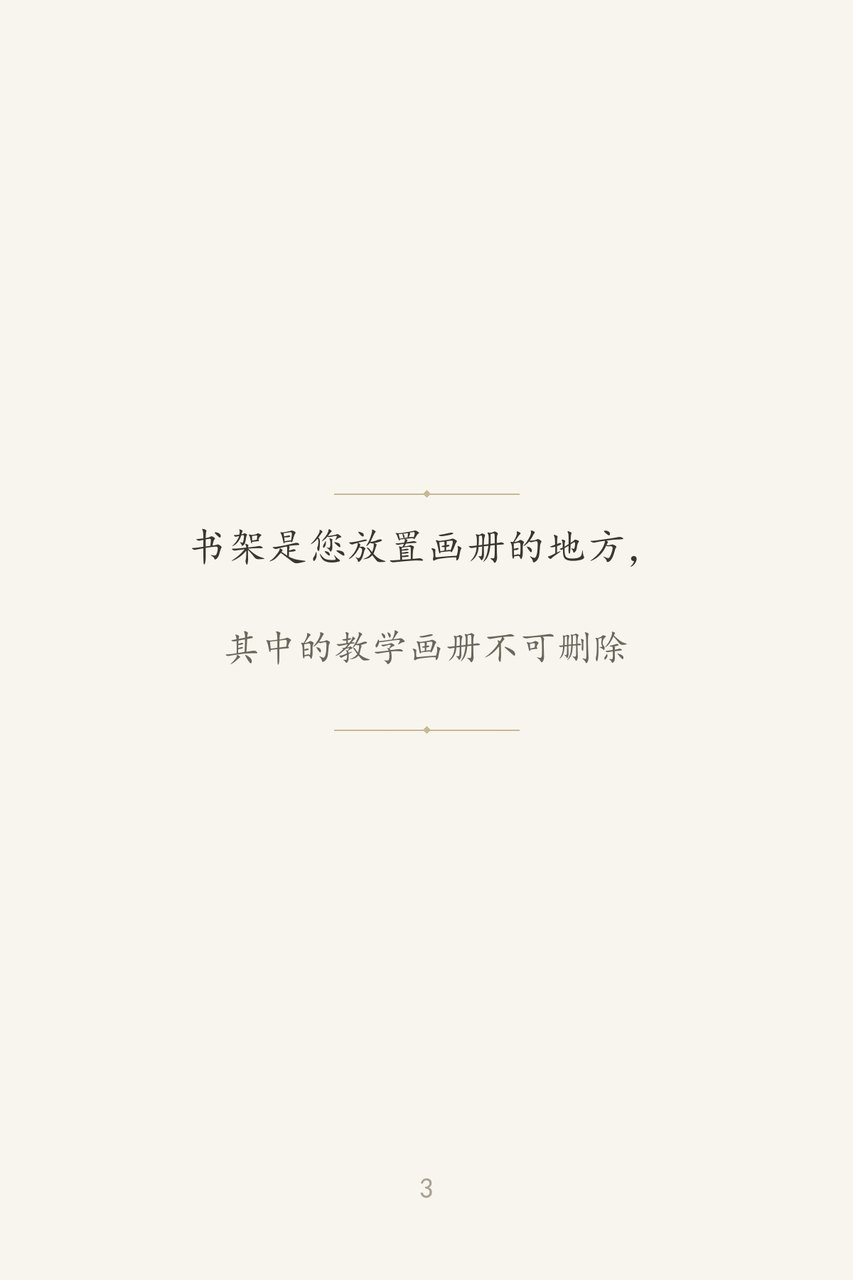
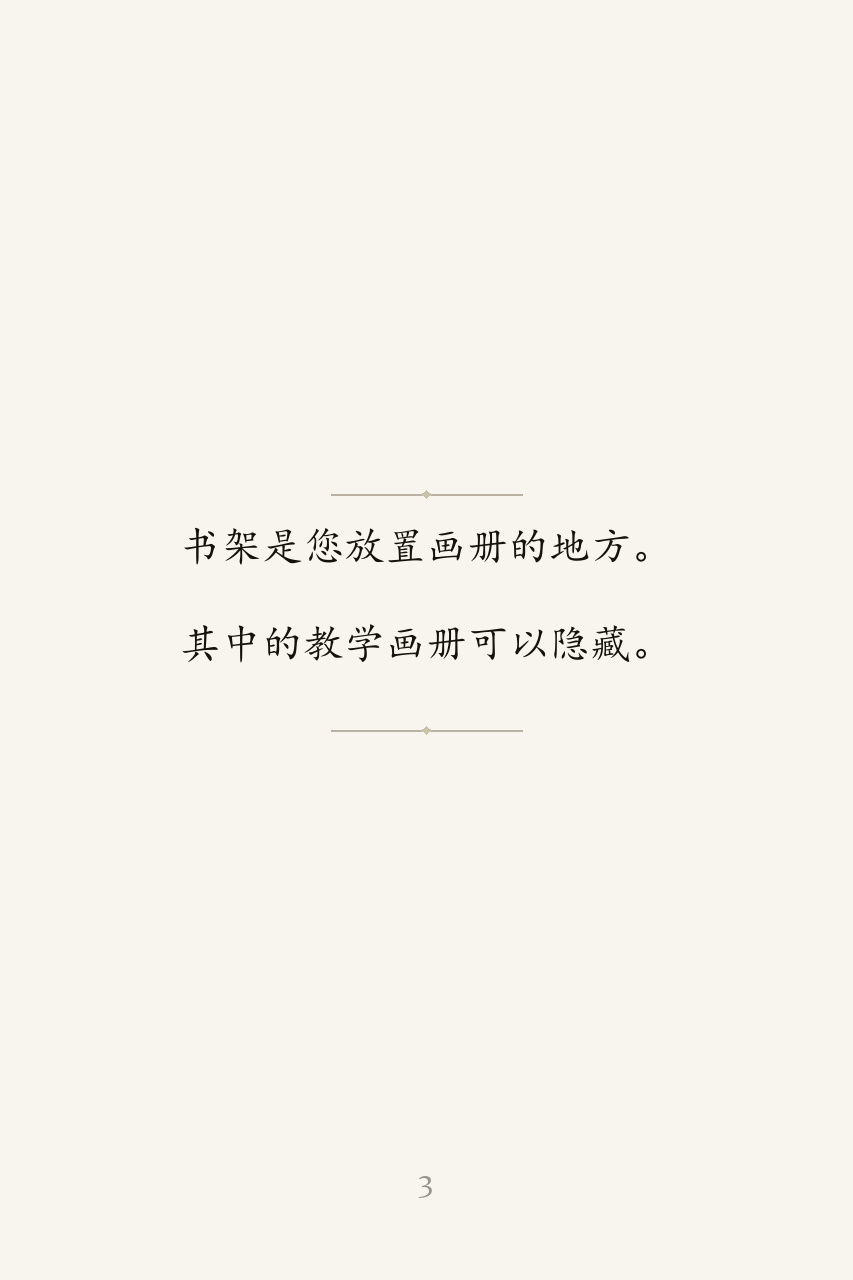
feat(android)：书页引擎与教学画册追平（R31–R39 说明文案 / 字体 / 音效）
- 教学画册第 4/5 页文案更新（书架可隐藏、翻页支持手动与自动 + 速度调节），新增一张说明卡 07-07.jpg；
- 04/05/06 三张说明卡按新文案重新渲染；
- 书页样式与字体（Source Serif 4 / 玄奘体）随书分发，book-style.css / styles.css 同步；
- 引擎 preview/probe/rules/template/artwork 追平当前版本；
- 音效换成柔和版，补 ATTRIBUTION。

diff --git a/android/app/src/main/assets/books/guide/index.html b/android/app/src/main/assets/books/guide/index.html
@@ -39,36 +39,49 @@
           <span class="outer-x left" aria-hidden="true"></span>
           <p class="folio"> 3</p>
         </article>
-        <article class="book-page art-page photo verso" aria-label="图 3">
-          <figure class="plate large"><img src="assets/photos/04-04.jpg" alt="第 3 张照片（竖构图）" width="853" height="1280" loading="eager" decoding="async"></figure>
+        <!-- ★ R40（2026-10-16，佘先生三次指示 + 一次纠偏）：
+               「先改原来的第四页」「在第四页和第五页的中间加一页」
+               「样式参照已有的格式」「不要在中间有空白页」「不要版权页那一张多余的」
+             ⇒ 第 4 页 = 书架说明卡、第 5 页 = 翻页说明卡，两页都是**图片页**
+               （与图 1/图 2 同款 plate 结构）；文字是渲染进图里的，与现有 6 张卡
+               同一套版式（853×1280、米白纸底、上下暖金细线带菱形、居中楷体两行、
+               底部页码），由 `tools/_render_guide_card.py` 照 02-02.jpg 像素反推
+               的参数渲出。
+             ⚠ 不要再往这两页塞 HTML 文字（`.colophon`）：① 壳层 layout.js 第 20)
+               条把 colophon 整块 display:none（真机上是空白页）；② 老内核不认
+               cqw 字号。文字烤进图里，这两个坑都不存在。
+             ⚠ 页码：卡片内页码 = 书内 folio − 1（与现有 6 张卡同一口径，
+               02-02 卡是"1"而书里 folio 是 2）；页脚那层 `.folio` 照旧保留
+               （第八轮他明说"页码留"）。 -->
+        <article class="book-page art-page photo verso" aria-label="书架说明">
+          <figure class="plate large"><img src="assets/photos/04-04.jpg" alt="书架是您放置画册的地方，其中的教学画册可以隐藏" width="853" height="1280" loading="eager" decoding="async"></figure>
           <span class="outer-y top" aria-hidden="true"></span>
           <span class="outer-y bottom" aria-hidden="true"></span>
           <span class="outer-x right" aria-hidden="true"></span>
           <p class="folio"> 4</p>
         </article>
-        <article class="book-page art-page photo recto" aria-label="图 4">
-          <figure class="plate large"><img src="assets/photos/05-05.jpg" alt="第 4 张照片（竖构图）" width="853" height="1280" loading="eager" decoding="async"></figure>
+        <article class="book-page art-page photo recto" aria-label="翻页说明">
+          <figure class="plate large"><img src="assets/photos/07-07.jpg" alt="画册可以手动翻页，也可以自动翻页，速度可以调节" width="853" height="1280" loading="eager" decoding="async"></figure>
           <span class="outer-y top" aria-hidden="true"></span>
           <span class="outer-y bottom" aria-hidden="true"></span>
           <span class="outer-x left" aria-hidden="true"></span>
           <p class="folio"> 5</p>
         </article>
-        <article class="book-page art-page photo verso" aria-label="图 5">
-          <figure class="plate large"><img src="assets/photos/06-06.jpg" alt="第 5 张照片（竖构图）" width="853" height="1280" loading="eager" decoding="async"></figure>
+        <article class="book-page art-page photo verso" aria-label="图 4">
+          <figure class="plate large"><img src="assets/photos/05-05.jpg" alt="第 4 张照片（竖构图）" width="853" height="1280" loading="eager" decoding="async"></figure>
           <span class="outer-y top" aria-hidden="true"></span>
           <span class="outer-y bottom" aria-hidden="true"></span>
           <span class="outer-x right" aria-hidden="true"></span>
           <p class="folio"> 6</p>
         </article>
-        <article class="book-page art-page paper recto" aria-label="版权页">
-          <div class="colophon">
-            <p>hello</p>
-            <p>画册使用说明</p>
-            <p class="small-print">5 页说明 · 本地生成</p>
-          </div>
+        <article class="book-page art-page photo recto" aria-label="图 5">
+          <figure class="plate large"><img src="assets/photos/06-06.jpg" alt="第 5 张照片（竖构图）" width="853" height="1280" loading="eager" decoding="async"></figure>
+          <span class="outer-y top" aria-hidden="true"></span>
+          <span class="outer-y bottom" aria-hidden="true"></span>
+          <span class="outer-x left" aria-hidden="true"></span>
           <p class="folio"> 7</p>
         </article>
-        <article class="book-page art-page cloth verso" data-density="hard" aria-label="封底">
+        <article class="book-page art-page cloth recto" data-density="hard" aria-label="封底">
           <span class="back-mark">hello</span>
         </article>
       </div>

diff --git a/android/app/src/main/assets/books/guide/style/book-style.css b/android/app/src/main/assets/books/guide/style/book-style.css
@@ -160,22 +160,31 @@
 .book-page.art-page.photo.--left::after{content:"";position:absolute;inset-block:0;right:0;z-index:4;width:2px;pointer-events:none;background:linear-gradient(to right,transparent,rgb(18 20 15 / 28%) 55%,rgb(18 20 15 / 40%))}
 .book-page.art-page.photo.--right::after{content:"";position:absolute;inset-block:0;left:0;z-index:4;width:2px;pointer-events:none;background:linear-gradient(to left,transparent,rgb(18 20 15 / 28%) 55%,rgb(18 20 15 / 40%))}
 
-/* ---- 照片外侧边缘的一圈淡阴影 ----
+/* ---- 照片外侧边缘的一圈淡阴影（**内阴影**）----
    只加「没有和另一页相接」的那几条边：
      左页（verso）—— 上、左、下；右页（recto）—— 上、右、下。
    贴中线的那条边不加，那里已经交给上面的跨页过渡处理，再加就重了。
 
    做法是两个方向各画一条极淡的黑色渐变（上 + 下 用同一个元素做不到方向相反，
    所以上下由 outer-y 管、左右由 outer-x 管），然后靠 opacity 统一压强度。
-   目前是「只要一点」的量级：最深处约 9%。
+
+   ★★ R34（2026-10-15）他报「边缘内阴影太深、范围也太大」⇒ 三项一起收：
+        范围  上下 7% → 3%     左右 6% → 2.5%   （约砍到原来的四成）
+        深度  14%→ 5%
+        不透明 .72 → .45
+        ⇒ **边沿等效黑度 10.1% → 2.3%**（原来的一半都不到）
+   ⚠ 只动**内**阴影（就是本段这四条 + 上面那条 opacity）。
+     **外阴影一个字不改** —— `.art-page .cover-plate{box-shadow:…}` 是封面小图的外投影、
+     `.art-page img{box-shadow:none}` 是照片本体无外投影，两套规则互不重叠。
+   ⚠ 别改回 `inset` 关键字（下面 1019 行那条契约测试会红）。
 
    层级：z-index:4，和纸缝线同级。两者永远不会碰面 ——
    纸缝只在贴中线那条边上，外侧阴影只在其余三条边上，互不重叠。 */
 .book-page.art-page.photo .outer-x,
-.book-page.art-page.photo .outer-y{position:absolute;z-index:4;pointer-events:none;opacity:.72}
-.book-page.art-page.photo .outer-y{inset-inline:0;height:7%}
-.book-page.art-page.photo .outer-y.top{top:0;background:linear-gradient(to bottom,rgb(0 0 0 / 14%),transparent)}
-.book-page.art-page.photo .outer-y.bottom{bottom:0;background:linear-gradient(to top,rgb(0 0 0 / 14%),transparent)}
-.book-page.art-page.photo .outer-x{inset-block:0;width:6%}
-.book-page.art-page.photo.--left .outer-x.left{left:0;background:linear-gradient(to right,rgb(0 0 0 / 14%),transparent)}
-.book-page.art-page.photo.--right .outer-x.right{right:0;background:linear-gradient(to left,rgb(0 0 0 / 14%),transparent)}
+.book-page.art-page.photo .outer-y{position:absolute;z-index:4;pointer-events:none;opacity:.45}
+.book-page.art-page.photo .outer-y{inset-inline:0;height:3%}
+.book-page.art-page.photo .outer-y.top{top:0;background:linear-gradient(to bottom,rgb(0 0 0 / 5%),transparent)}
+.book-page.art-page.photo .outer-y.bottom{bottom:0;background:linear-gradient(to top,rgb(0 0 0 / 5%),transparent)}
+.book-page.art-page.photo .outer-x{inset-block:0;width:2.5%}
+.book-page.art-page.photo.--left .outer-x.left{left:0;background:linear-gradient(to right,rgb(0 0 0 / 5%),transparent)}
+.book-page.art-page.photo.--right .outer-x.right{right:0;background:linear-gradient(to left,rgb(0 0 0 / 5%),transparent)}
